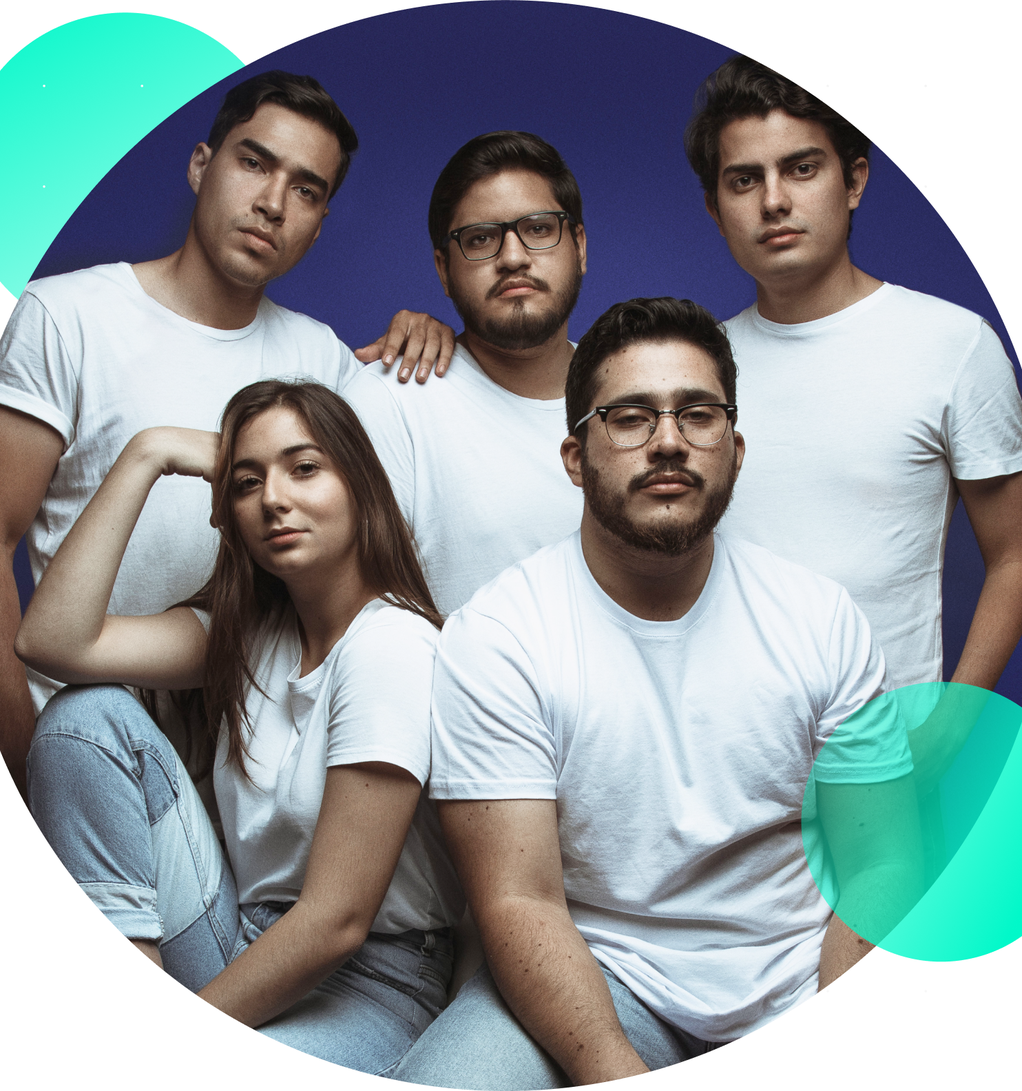
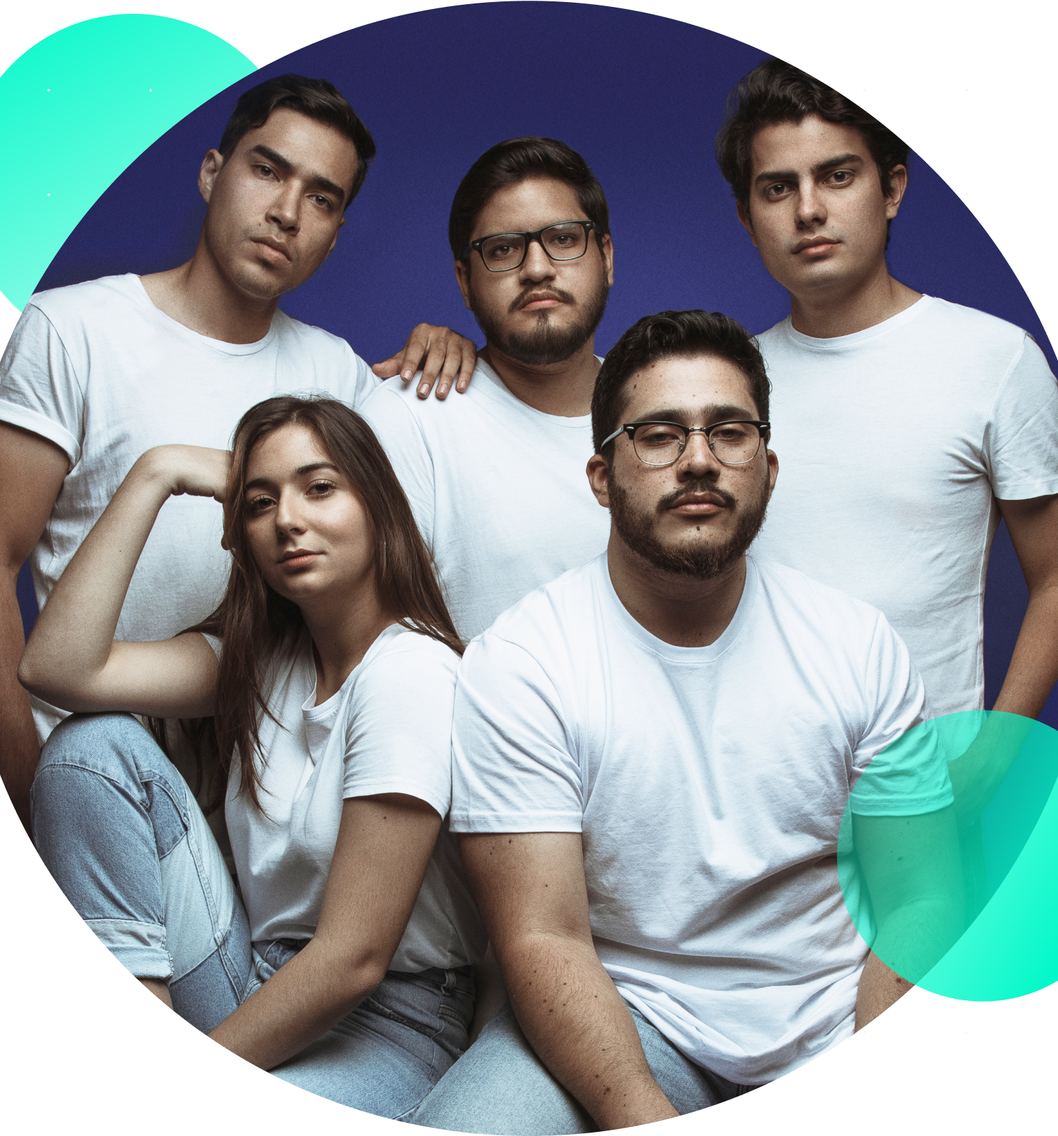
cambios

diff --git a/styles.css b/styles.css
@@ -437,8 +437,8 @@ p{
     }
 
     .equipomobile{
-        width: 742px;
-        height: 792px;
+        width: 768px;
+        height: 825px;
         text-align: center;
         margin: 45px 0 0 auto;
         margin-bottom: 15px;
